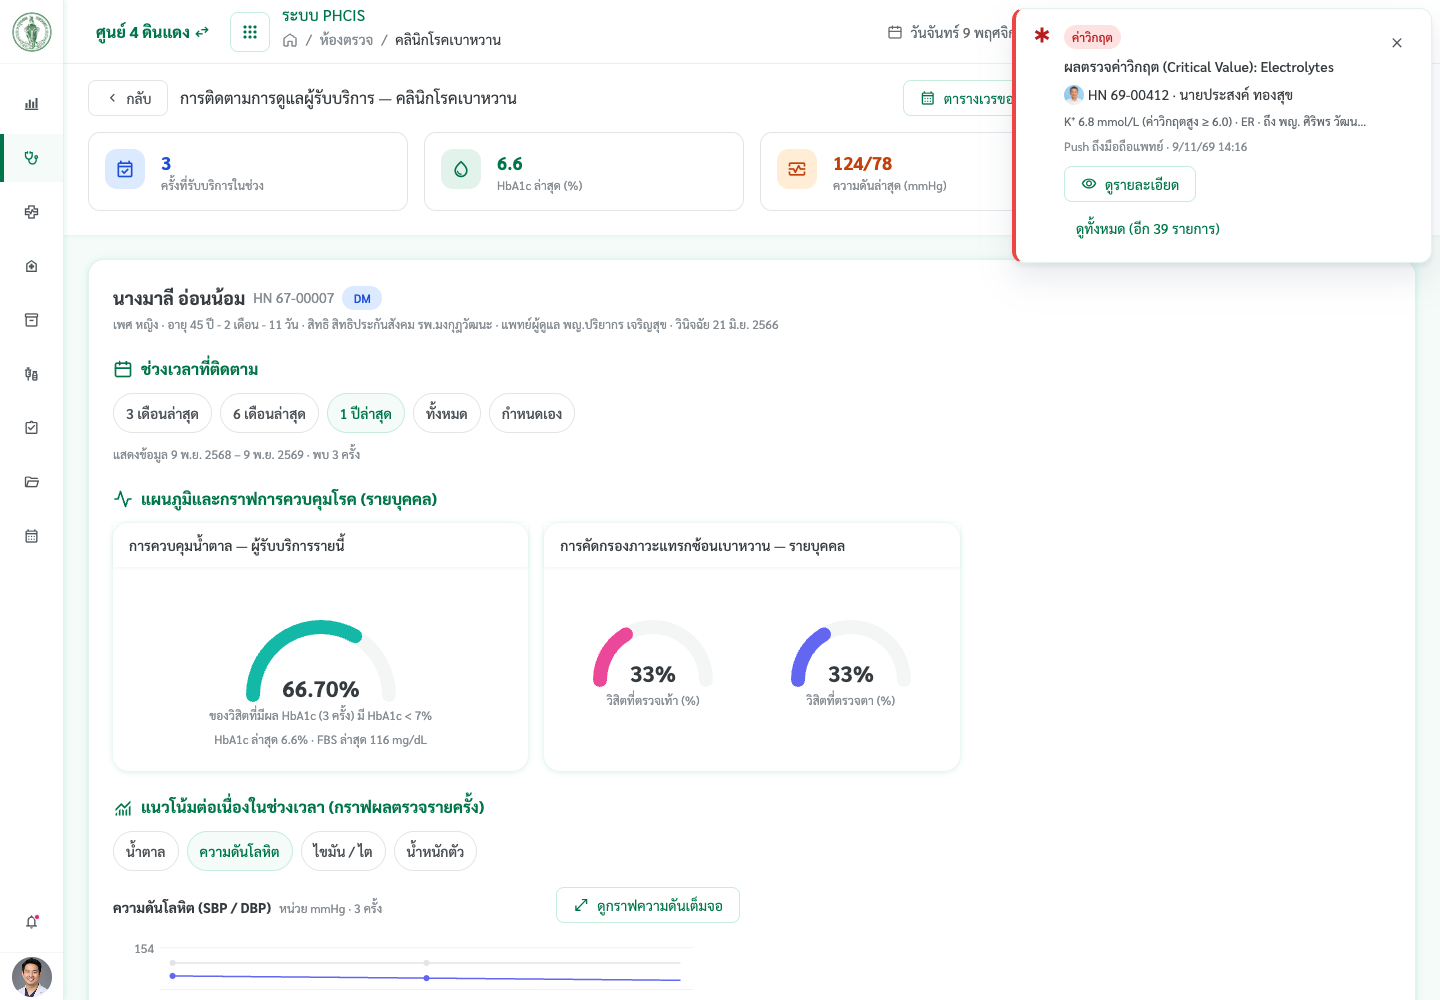
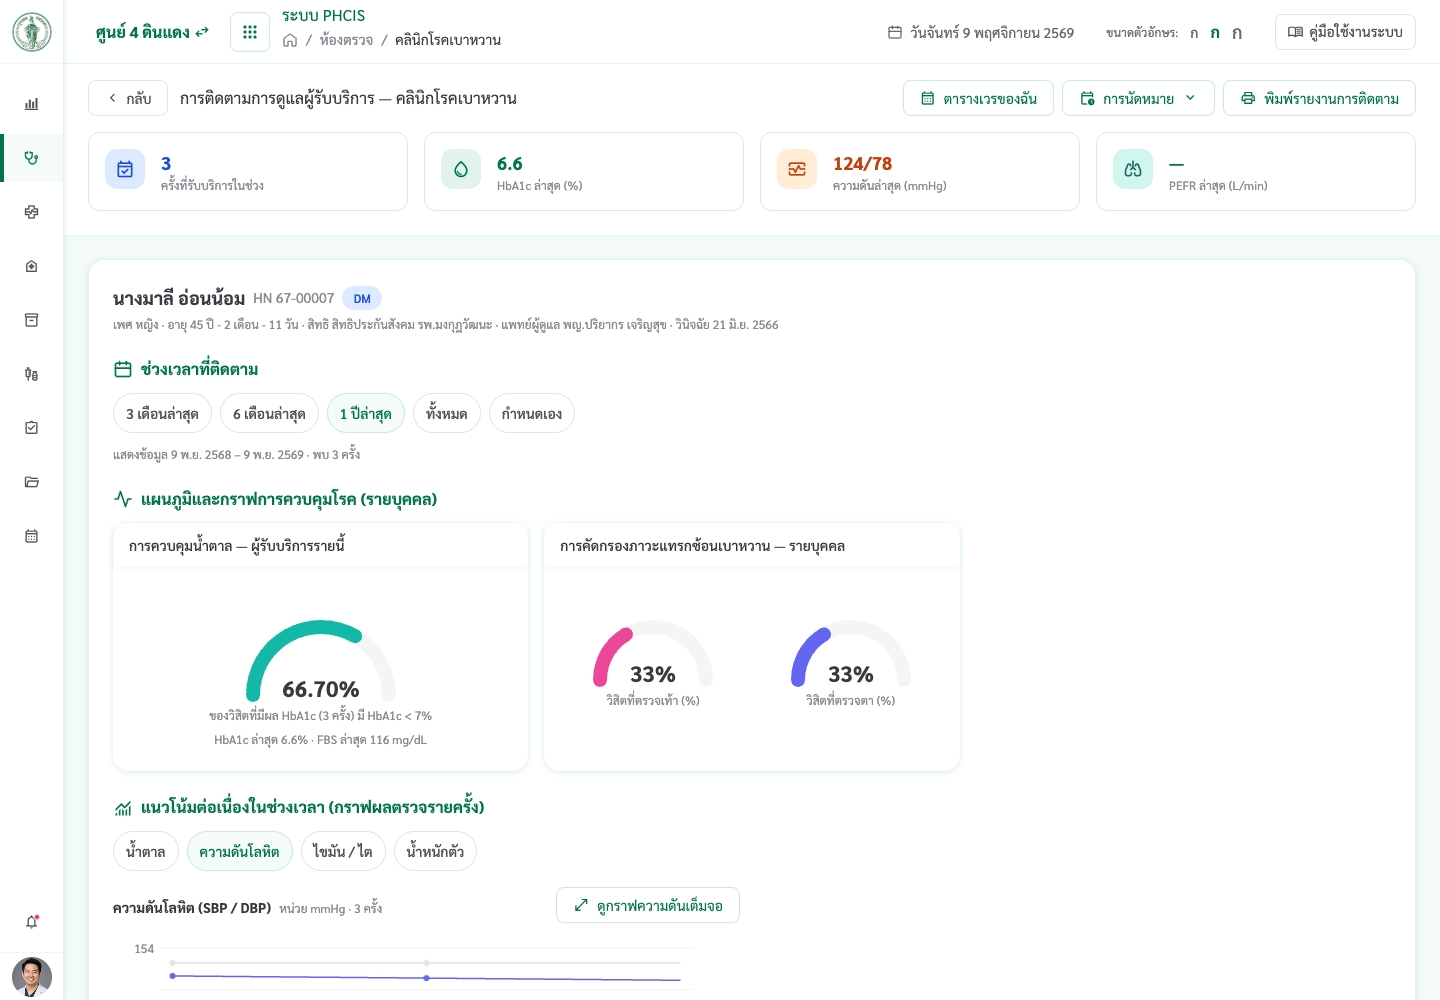
TOR คทง.3 101–136: อัปเดตรอบ 2 — ภาพ 1440 ทั้งหมด · ป๊อปอัปเหตุผลไม่ได้วัด · สภาพที่มาใช้บริการ · ปุ่ม Fast Track ใหม่

Changed region(s): [[0.6875, 0.0, 0.9688, 0.279], [0.6875, 0.186, 0.7188, 0.217]]

diff --git a/tor-ncd-101-136.html b/tor-ncd-101-136.html
@@ -48,7 +48,7 @@
 <main class="page">
   <header>
     <h1>TOR checklist คทง.3 ลำดับ 101–136</h1>
-    <p class="lede">เฉพาะคลินิกเบาหวาน/ความดัน + ช่องทาง Fast Track ที่จุดคัดกรองกลาง · ข้อความใน Excel · แก้อะไร · ดูยังไงทีละขั้น · ภาพจากระบบจริง (ข้อมูลผู้ป่วยตัวอย่าง) · อัปเดต 9 พ.ย. 2569</p>
+    <p class="lede">เฉพาะคลินิกเบาหวาน/ความดัน + ช่องทาง Fast Track ที่จุดคัดกรองกลาง · ข้อความใน Excel · แก้อะไร · ดูยังไงทีละขั้น · ภาพจากระบบจริง (ข้อมูลผู้ป่วยตัวอย่าง) · อัปเดต 9 พ.ย. 2569 (รอบ 2: ป๊อปอัปเหตุผลที่ไม่ได้วัด · สภาพที่มาใช้บริการ)</p>
   </header>
   <div class="legend"><span class="chip c-green">ทำแล้ว · ทดสอบแล้ว</span><span class="chip c-blue">มีอยู่แล้ว ไม่ได้แก้</span><span class="chip c-orange">ไม่ทำ (ผู้ใช้ตัดสินใจ)</span></div>
   <div class="tbl"><table><thead><tr><th>ลำดับ</th><th>รหัส</th><th>หัวข้อ</th><th>ผล</th></tr></thead><tbody><tr><td class="code"><a href="#r101">101</a></td><td class="code">NCD-44</td><td>การบันทึกสัญญาณชีพ (Vital Signs) กรณี &#x27;ไม่ได้วัด&#x27; และ &#x27;วัดไม่ได้&#x27;</td><td><span class="chip nw c-blue">มีอยู่แล้ว</span></td></tr><tr><td class="code"><a href="#r102">102</a></td><td class="code">NCD-45</td><td>ช่องทาง Fast Track ที่จุดคัดกรองกลาง/ตู้ Kiosk สำหรับผู้ป่วยเร่งด่วน</td><td><span class="chip nw c-green">ทำแล้ว · ทดสอบแล้ว</span></td></tr><tr><td class="code"><a href="#r107">107</a></td><td class="code">NCD-46</td><td>กราฟแสดงผลความดันโลหิต (BP Graph)</td><td><span class="chip nw c-green">ทำแล้ว · ทดสอบแล้ว</span></td></tr><tr><td class="code"><a href="#r108">108</a></td><td class="code">NCD-47</td><td>การบันทึกประวัติเจ็บป่วยเดิมและประวัติครอบครัว</td><td><span class="chip nw c-blue">มีอยู่แล้ว</span></td></tr><tr><td class="code"><a href="#r109">109</a></td><td class="code">NCD-48</td><td>การปรับปรุงหน้าจอขึ้นทะเบียนโรคเรื้อรัง</td><td><span class="chip nw c-green">ทำแล้ว · ทดสอบแล้ว</span></td></tr><tr><td class="code"><a href="#r111">111</a></td><td class="code">NCD-50</td><td>การลงรหัสการวินิจฉัยโรค (ICD-10)</td><td><span class="chip nw c-blue">มีอยู่แล้ว</span></td></tr><tr><td class="code"><a href="#r112">112</a></td><td class="code">NCD-51</td><td>เปิดสิทธิ์ให้พยาบาลช่วยลงรหัสโรค ICD-10 ได้</td><td><span class="chip nw c-blue">มีอยู่แล้ว</span></td></tr><tr><td class="code"><a href="#r113">113</a></td><td class="code">NCD-52</td><td>ลำดับขั้นตอนงานตรวจ: สั่งยา/หัตถการในหน้าเดียวกับตรวจและวินิจฉัย และย้ายการบันทึกนัดหมายไปหน้า &#x27;แผนการดูแลรักษา&#x27;</td><td><span class="chip nw c-orange">ไม่ทำ</span></td></tr><tr><td class="code"><a href="#r114">114</a></td><td class="code">NCD-53</td><td>เหตุผลในการสั่งจ่ายและปรับเปลี่ยนยา (Medication Adjustment Reason)</td><td><span class="chip nw c-blue">มีอยู่แล้ว</span></td></tr><tr><td class="code"><a href="#r115">115</a></td><td class="code">NCD-54</td><td>หน้าหลักแสดงเฉพาะสรุปผลตรวจที่ผิดปกติ และแจ้งเตือนสีแดงกรณีตรวจตา/ตรวจเท้าผิดปกติ</td><td><span class="chip nw c-blue">มีอยู่แล้ว</span></td></tr><tr><td class="code"><a href="#r116">116</a></td><td class="code">NCD-55</td><td>แบบฟอร์มตรวจตา: เพิ่ม Plan Repeat และย้ายข้อความเงื่อนไขส่งต่อพบจักษุแพทย์มาไว้ในหน้าตรวจตา</td><td><span class="chip nw c-green">ทำแล้ว · ทดสอบแล้ว</span></td></tr><tr><td class="code"><a href="#r122">122</a></td><td class="code">NCD-56</td><td>แยกคำศัพท์ &#x27;ส่งปรึกษา&#x27; (Consultation) และ &#x27;ส่งต่อ&#x27; (Referral) เป็น 2 ระบบ</td><td><span class="chip nw c-blue">มีอยู่แล้ว</span></td></tr><tr><td class="code"><a href="#r132">132</a></td><td class="code">NCD-57</td><td>หน้าจอรายงานคลินิกเบาหวาน/ความดัน: ตัดตัวเลขข้อหัวข้อ (เช่น 5, 8.1.1) ออก</td><td><span class="chip nw c-green">ทำแล้ว · ทดสอบแล้ว</span></td></tr><tr><td class="code"><a href="#r133">133</a></td><td class="code">NCD-58</td><td>รายงานจำแนกผู้ป่วยเบาหวานตามระยะเวลาการเป็นโรค</td><td><span class="chip nw c-green">ทำแล้ว · ทดสอบแล้ว</span></td></tr><tr><td class="code"><a href="#r134">134</a></td><td class="code">NCD-59</td><td>รายงานกลุ่มผู้สูงอายุ (65 ปีขึ้นไป) จำแนกตามสภาวะสุขภาพ และระดับการควบคุม HbA1c</td><td><span class="chip nw c-blue">มีอยู่แล้ว</span></td></tr><tr><td class="code"><a href="#r135">135</a></td><td class="code">NCD-60</td><td>รายงานการส่งต่อผู้ป่วย: แยกสถิติการส่งต่อภายนอกและการส่งปรึกษาภายในออกจากกัน</td><td><span class="chip nw c-green">ทำแล้ว · ทดสอบแล้ว</span></td></tr><tr><td class="code"><a href="#r136">136</a></td><td class="code">NCD-61</td><td>รายงานสถิติการส่งต่อจำแนกตามสาเหตุหลัก โดยดึงจากรหัส ICD-10</td><td><span class="chip nw c-green">ทำแล้ว · ทดสอบแล้ว</span></td></tr></tbody></table></div>
@@ -56,7 +56,7 @@
 หน้าจอ: หน้าคัดกรอง / ส่วน Vital Signs
 รายละเอียด:
 • &#x27;ไม่ได้วัด&#x27; → แสดงเป็น Checkbox หรือเครื่องหมาย &#x27;-&#x27;
-• &#x27;วัดไม่ได้&#x27; → บังคับกรอก Textbox ระบุเหตุผลประกอบ</blockquote><hr><p class="gh">แก้อะไร</p><p>ไม่ได้แก้ (ทำไว้ตั้งแต่ 22 ต.ค. 69): ติ๊ก &quot;ไม่ได้วัด&quot; แล้วต้องเลือกเหตุผล</p><hr><p class="gh">ดูยังไง</p><ol class="steps"><li>เข้าระบบเป็นพยาบาลคัดกรองกลาง</li><li>เปิดเมนูคัดกรอง → หน้า /opd/queue แล้วกดผู้ป่วยรายใดก็ได้</li><li>ไปขั้น &quot;สัญญาณชีพ</li><li>ติ๊กช่อง &quot;ไม่ได้วัด&quot; บนการ์ดค่าใดก็ได้ → ป๊อปอัปให้เลือกเหตุผล (อื่นๆ ต้องพิมพ์ระบุ)</li></ol><hr><p class="gh">ภาพหน้าจอ</p><div class="shots"><figure><a href="tor-shots/ncd-101-136/101-vitals-not-measured.png" target="_blank" rel="noopener"><img src="tor-shots/ncd-101-136/101-vitals-not-measured.png" alt="ติ๊ก &quot;ไม่ได้วัด&quot; แล้วต้องเลือกเหตุผล"></a><figcaption>ติ๊ก &quot;ไม่ได้วัด&quot; แล้วต้องเลือกเหตุผล</figcaption></figure></div></div><div class="card" id="r102"><div class="head"><div><h2>ลำดับ 102 · NCD-45</h2><p class="sum">ช่องทาง Fast Track ที่จุดคัดกรองกลาง/ตู้ Kiosk สำหรับผู้ป่วยเร่งด่วน</p></div><span class="chip c-green">ทำแล้ว · ทดสอบแล้ว (เฉพาะจุดคัดกรองกลาง)</span></div><hr><p class="gh">ข้อความใน Excel</p><blockquote>ช่องทาง Fast Track ที่จุดคัดกรองกลาง/ตู้ Kiosk สำหรับผู้ป่วยเร่งด่วน
+• &#x27;วัดไม่ได้&#x27; → บังคับกรอก Textbox ระบุเหตุผลประกอบ</blockquote><hr><p class="gh">แก้อะไร</p><p>ฟังก์ชันมีอยู่แล้ว (ทำไว้ตั้งแต่ 22 ต.ค. 69): ติ๊ก &quot;ไม่ได้วัด&quot; แล้วต้องเลือกเหตุผล · แก้เพิ่ม 9 พ.ย. 69: ขยายป๊อปอัป &quot;เหตุผลที่ไม่ได้วัด&quot; ให้ทุกปุ่มเหตุผลอยู่บรรทัดเดียว (ใช้ร่วมทุกหน้าที่มีการ์ดสัญญาณชีพ)</p><hr><p class="gh">ดูยังไง</p><ol class="steps"><li>เข้าระบบเป็นพยาบาลคัดกรองกลาง</li><li>เปิดเมนูคัดกรอง → หน้า /opd/queue แล้วกดผู้ป่วยรายใดก็ได้</li><li>ไปขั้น &quot;สัญญาณชีพ</li><li>ติ๊กช่อง &quot;ไม่ได้วัด&quot; บนการ์ดค่าใดก็ได้ → ป๊อปอัปให้เลือกเหตุผล (อื่นๆ ต้องพิมพ์ระบุ)</li></ol><hr><p class="gh">ภาพหน้าจอ</p><div class="shots"><figure><a href="tor-shots/ncd-101-136/101-not-measured-popup-wide.png" target="_blank" rel="noopener"><img src="tor-shots/ncd-101-136/101-not-measured-popup-wide.png" alt="แก้เพิ่ม 9 พ.ย. 69: ป๊อปอัปกว้างขึ้น ทุกปุ่มบรรทัดเดียว"></a><figcaption>แก้เพิ่ม 9 พ.ย. 69: ป๊อปอัปกว้างขึ้น ทุกปุ่มบรรทัดเดียว</figcaption></figure></div></div><div class="card" id="r102"><div class="head"><div><h2>ลำดับ 102 · NCD-45</h2><p class="sum">ช่องทาง Fast Track ที่จุดคัดกรองกลาง/ตู้ Kiosk สำหรับผู้ป่วยเร่งด่วน</p></div><span class="chip c-green">ทำแล้ว · ทดสอบแล้ว (เฉพาะจุดคัดกรองกลาง)</span></div><hr><p class="gh">ข้อความใน Excel</p><blockquote>ช่องทาง Fast Track ที่จุดคัดกรองกลาง/ตู้ Kiosk สำหรับผู้ป่วยเร่งด่วน
 หน้าจอ: จุดคัดกรองกลาง (Nursing Triage) / ตู้ Kiosk
 รายละเอียด:
 • พยาบาลจุดคัดกรองกดเลือก Fast Track ได้ สำหรับผู้ป่วยเร่งด่วน / ผู้สูงอายุ / ผู้นั่งรถเข็น (Wheelchair) / ผู้มีอาการวิกฤต (เช่น ความดันสูงมาก หรือน้ำตาลตก)
@@ -110,6 +110,8 @@
 หน้าจอ: หน้ารายงานการส่งต่อ
 รายละเอียด:
 • สาเหตุหลัก: เบาหวาน, ความดันโลหิตสูง, โรคหลอดเลือดหัวใจ, โรคไตเรื้อรัง</blockquote><hr><p class="gh">แก้อะไร</p><p>หัวข้อ &quot;สาเหตุหลักในการส่งปรึกษาหรือส่งต่อ (จากรหัส ICD-10 หลักของ Visit ที่ส่ง)&quot; แต่ละโรคมีช่วงรหัส เช่น เบาหวาน (E10–E14) · ไฟล์ CSV มีครบ 4 โรค</p><hr><p class="gh">ดูยังไง</p><ol class="steps"><li>เข้าระบบเป็นแพทย์คลินิกเบาหวาน</li><li>เปิดหน้ารายงานคลินิก (/clinic/diabetes/reports)</li><li>หาแถว &quot;สาเหตุหลักในการส่งปรึกษาหรือส่งต่อ …</li></ol><hr><p class="gh">ภาพหน้าจอ</p><div class="shots"><figure><a href="tor-shots/ncd-101-136/136-refer-cause-icd10.png" target="_blank" rel="noopener"><img src="tor-shots/ncd-101-136/136-refer-cause-icd10.png" alt="สาเหตุหลักพร้อมช่วงรหัส ICD-10"></a><figcaption>สาเหตุหลักพร้อมช่วงรหัส ICD-10</figcaption></figure></div></div>
+  <header><h1 style="font-size: var(--type-size-xl, 20px);">แก้เพิ่มเติม (นอกรายการ TOR)</h1><p class="lede">งานที่ขอเพิ่มหลังทำรายการ 101–136</p></header>
+  <div class="card" id="x1"><div class="head"><div><h2>สภาพที่มาใช้บริการ (จากเวชระเบียน) แสดงในหน้าคัดกรอง</h2><p class="sum">แก้เพิ่ม 9 พ.ย. 69</p></div><span class="chip c-green">ทำแล้ว · ทดสอบแล้ว</span></div><hr><p class="gh">คำขอ</p><blockquote>สภาพที่มาใช้บริการบันทึกในหน้าเวชระเบียน แสดงตรงไหนในหน้าคัดกรอง (ผู้ใช้ 9 พ.ย. 69 · เลือก ข)</blockquote><hr><p class="gh">แก้อะไร</p><p>เดิมแสดงเฉพาะไอคอนหลังชื่อในหน้าคิว · เพิ่ม: (1) ไอคอนเดียวกันหลังชื่อบนการ์ดผู้ป่วยทุกหน้าบันทึก (คัดกรอง · ห้องแพทย์ · คลินิก · พยาบาลหลังตรวจ) ชี้แล้วบอกว่ามาจากเวชระเบียน (2) หน้าคัดกรองกลาง การ์ด &quot;ซักประวัติ&quot; แสดงอ่านอย่างเดียวในแถวเดียวกับ &quot;วิธีการมา&quot; · &quot;รูปแบบบริการ&quot;: ไอคอน + สภาพ (รวม &quot;เดิน&quot;) + &quot;จากเวชระเบียน · หมายเหตุและ Flag&quot;</p><hr><p class="gh">ดูยังไง</p><ol class="steps"><li>เข้าระบบเป็นพยาบาลคัดกรองกลาง</li><li>เปิดเมนูคัดกรอง (/opd/queue) แล้วกดผู้ป่วย HN 67-00006 นายศุภชัย แก้วใส (ทะเบียนบันทึกว่านั่งรถเข็น)</li><li>ดูหลังชื่อบนการ์ดผู้ป่วยสีเขียว → ไอคอน ♿ (ชี้ดูที่มา)</li><li>กดเปิดการ์ด &quot;ซักประวัติ&quot; → ช่องที่ 3 แถวบน &quot;สภาพที่มาใช้บริการ: นั่งรถเข็น&quot;</li><li>เทียบกับ HN 67-00003 → แสดง &quot;เดิน&quot; และไม่มีไอคอนบนการ์ด</li></ol><hr><p class="gh">หมายเหตุ</p><p>ไม่ใช่ข้อใน TOR checklist ลำดับ 101–136 — แก้ตามคำขอเพิ่มเติม</p><hr><p class="gh">ภาพหน้าจอ</p><div class="shots"><figure><a href="tor-shots/ncd-101-136/extra/x1-arrival-mobility-screening.png" target="_blank" rel="noopener"><img src="tor-shots/ncd-101-136/extra/x1-arrival-mobility-screening.png" alt="หน้าคัดกรอง: ♿ หลังชื่อบนการ์ด + ช่อง &quot;สภาพที่มาใช้บริการ&quot; ในซักประวัติ"></a><figcaption>หน้าคัดกรอง: ♿ หลังชื่อบนการ์ด + ช่อง &quot;สภาพที่มาใช้บริการ&quot; ในซักประวัติ</figcaption></figure></div></div>
 </main>
 </body>
 </html>
